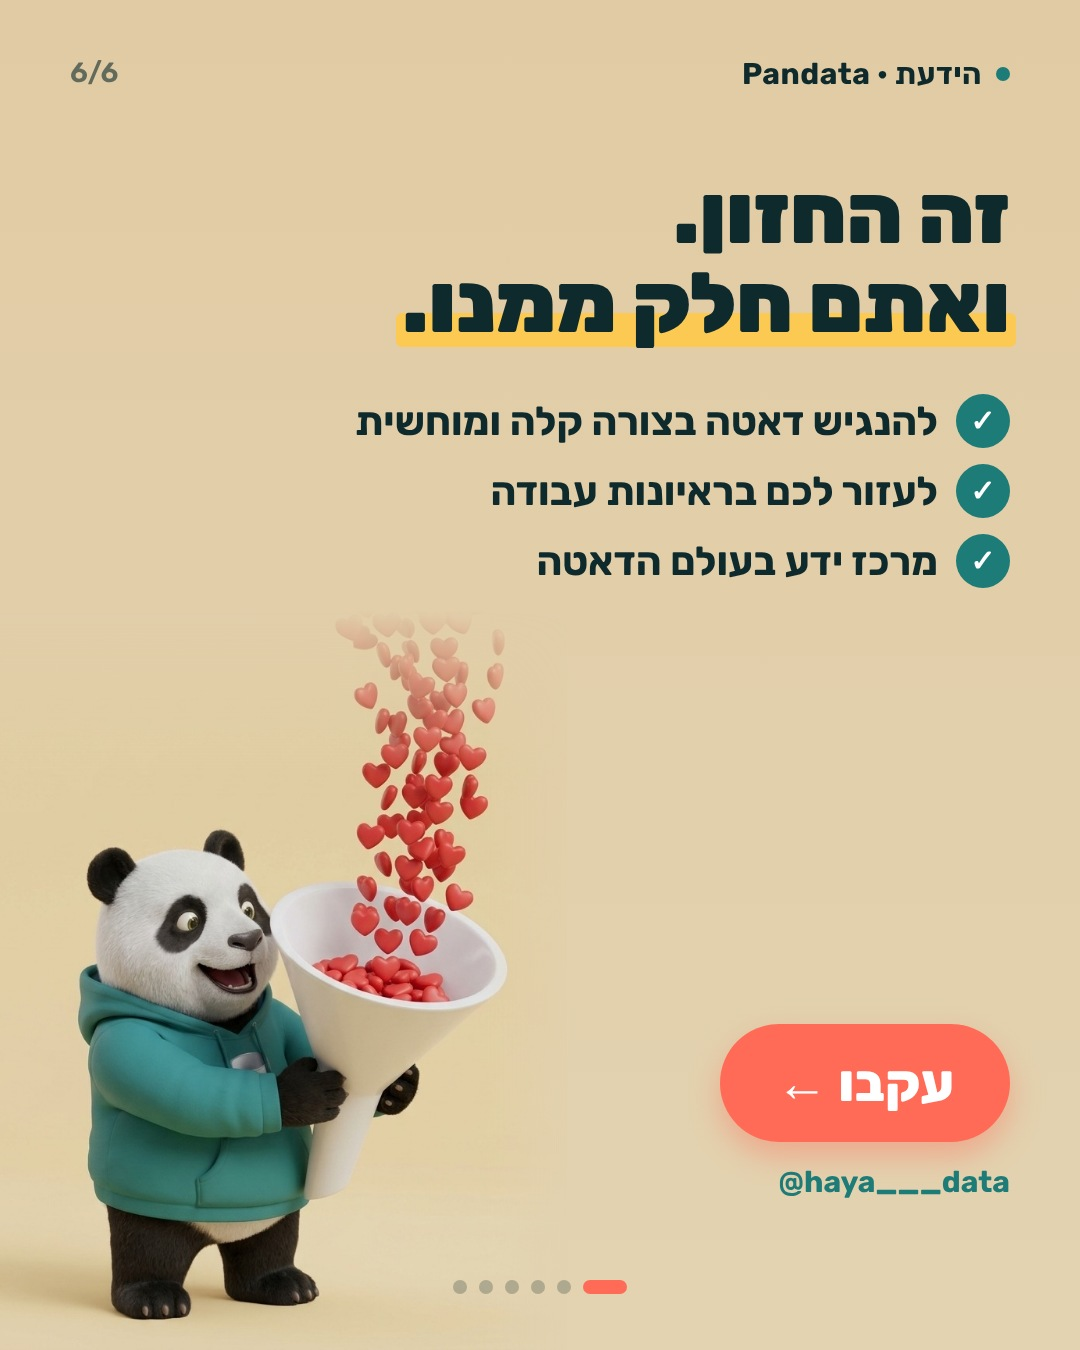
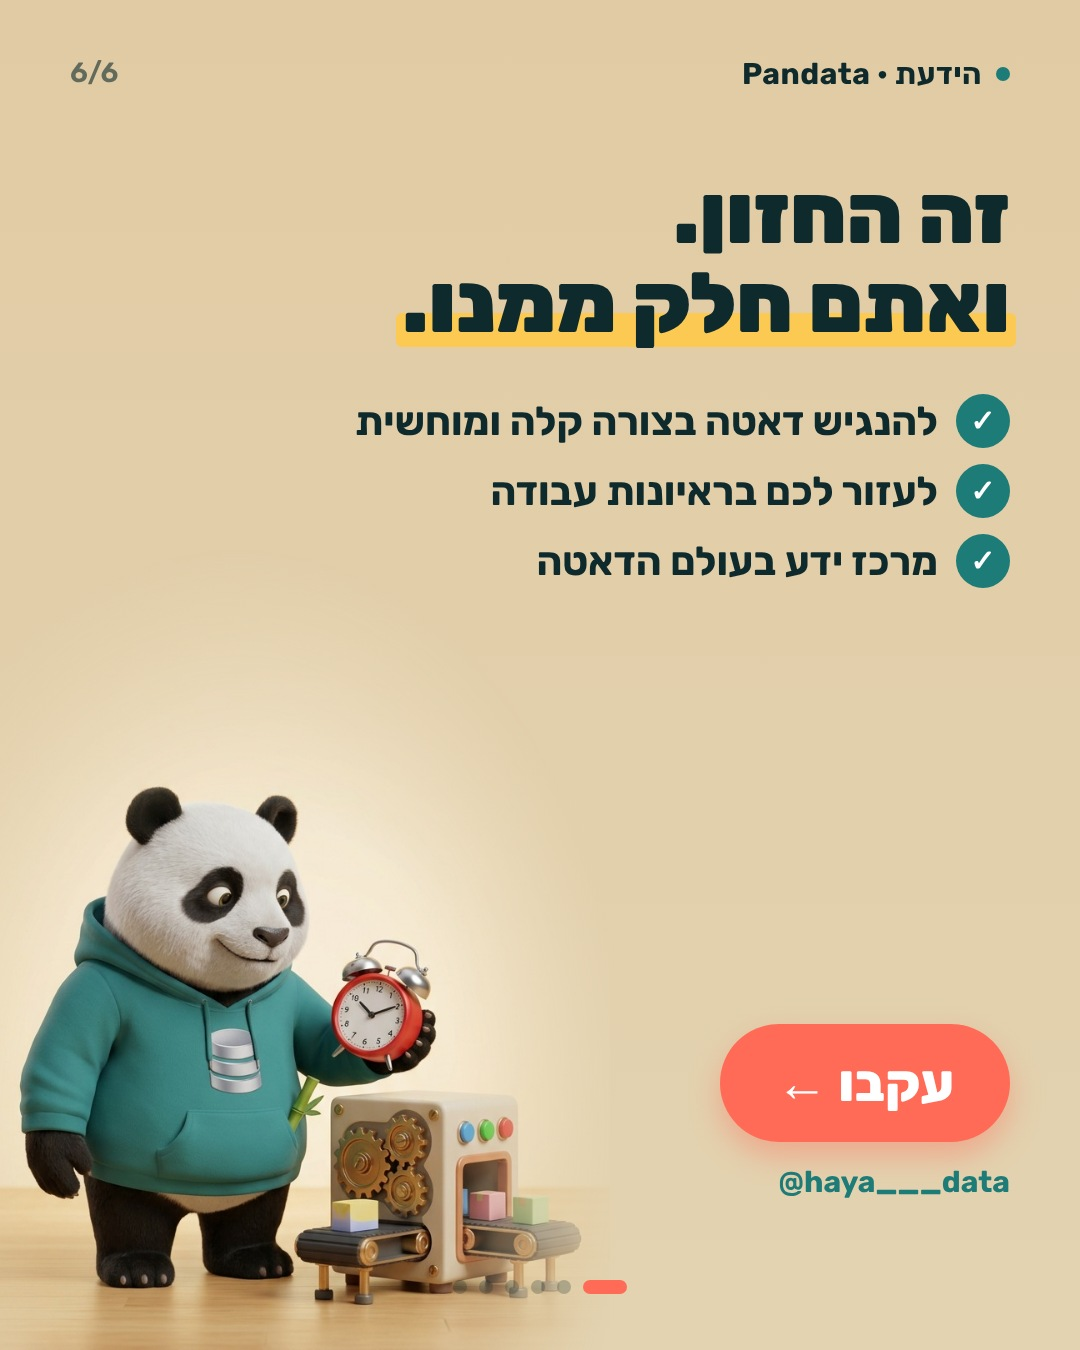
Vision carousel: alarm-clock Pandata on the last slide
Claude-Session: https://claude.ai/code/session_01HGsxkkLTRfJG6BnZMczhct

Changed region(s): [[0.0, 0.4667, 0.55, 1.0], [0.4583, 0.4667, 0.4889, 0.4978]]

diff --git a/posts/vision/slides.html b/posts/vision/slides.html
@@ -78,7 +78,7 @@ h2{font-size:86px;line-height:1.08;font-weight:900}
 #s6 .sub{font-size:42px;line-height:1.4;font-weight:600;margin-top:30px;max-width:900px}
 #s6 .bubble{margin-top:40px;display:inline-block;background:#fff;border-radius:34px 34px 34px 8px;padding:30px 36px;font-size:40px;font-weight:700;box-shadow:0 12px 30px rgba(15,42,44,.1)}
 #s6 .recap{margin-top:46px;display:flex;flex-direction:column;gap:16px}#s6 .recap div{font-size:40px;font-weight:700;display:flex;align-items:center;gap:18px}#s6 .recap i{font-style:normal;width:54px;height:54px;border-radius:50%;background:var(--teal);color:#fff;display:flex;align-items:center;justify-content:center;font-size:30px}
-#s6 .laugh{position:absolute;bottom:0;left:-40px;width:620px;height:740px;background:url(hearts.jpg) 35% bottom/600px auto no-repeat;-webkit-mask-image:linear-gradient(to left,transparent 0,#000 15%),linear-gradient(to bottom,transparent 0,#000 22%);-webkit-mask-composite:source-in}
+#s6 .laugh{position:absolute;bottom:0;left:-30px;width:640px;height:820px;background:url(clock.jpg) 40% bottom/640px auto no-repeat;-webkit-mask-image:radial-gradient(ellipse 62% 70% at 42% 72%,#000 55%,transparent 100%)}
 #s6 .cta{position:absolute;bottom:150px;right:70px;width:440px;text-align:right}
 #s6 .btn{display:inline-flex;align-items:center;gap:14px;background:var(--coral);color:#fff;font-weight:800;font-size:40px;padding:22px 40px;border-radius:60px;box-shadow:0 14px 30px rgba(255,107,87,.4)}
 #s6 .btn2{display:inline-flex;margin-top:18px;font-weight:800;font-size:36px;padding:18px 34px;border-radius:60px;border:4px solid var(--ink)}
